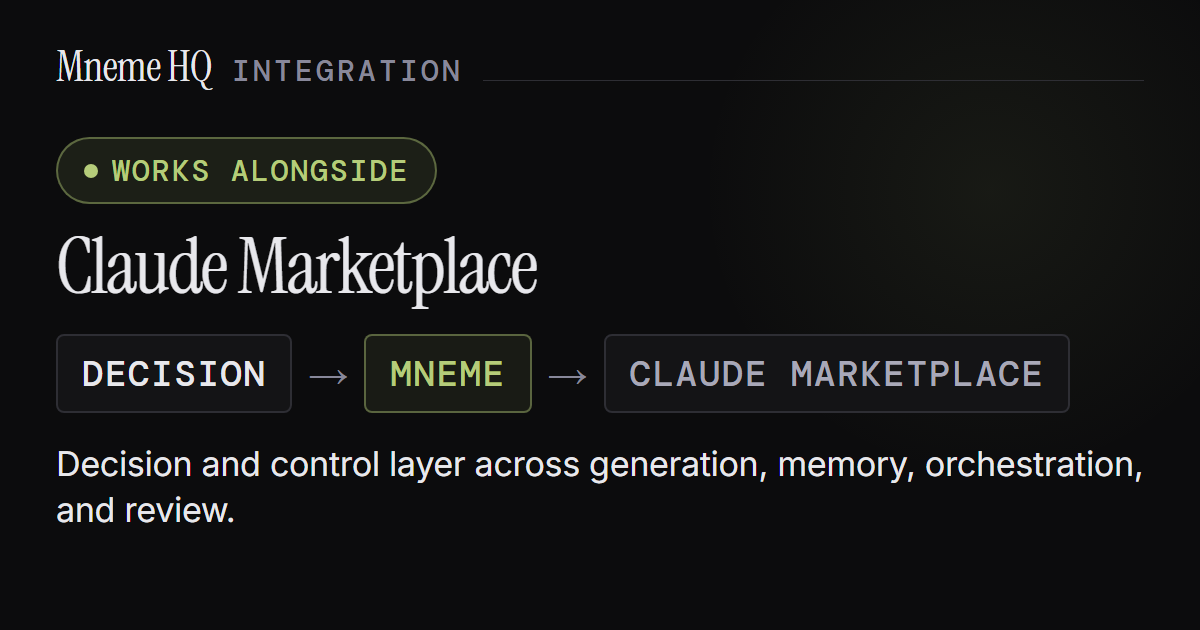
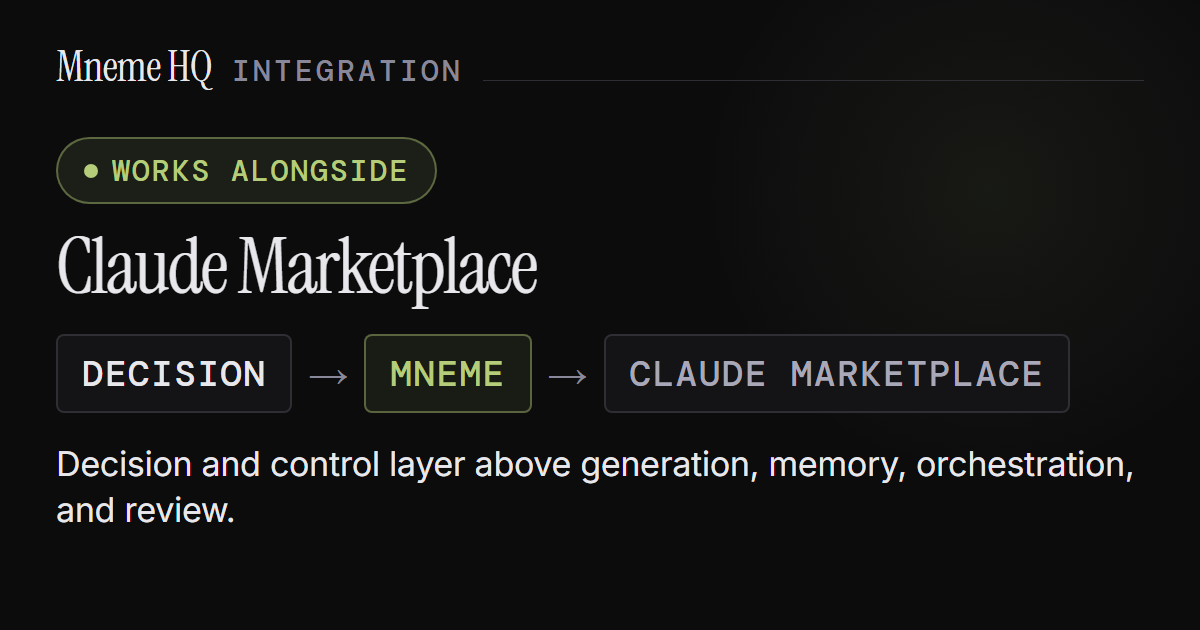
site: apply claim-audit fixes to the category wording repair
The pre-merge audit found replacements that changed more than the
category name. Restore the original scope in each:

- Claude Marketplace card: keep "above", not "across".
- Restore architecture scoping on the Cursor Rules quick answer, the
  VS Code table, the Agent Forge answer, the multi-agent heading and
  the supported-languages lede.
- Agent Forge and Devin: replace two remaining retired-category uses.
- CrewAI card: drop the "defer to" claim.
- Five concept related-cards: stop naming Mneme "governance layer".
- reliable-delegation: restore the antecedent for "the two layers".
- seo_check: concept pages must name the Organization as author.

Also revert six insight pages whose image alt text was re-synced from
the manifest by accident; that drift is out of scope here.

Agent: claude-code
Agent-Model: claude-opus-5-5
Agent-Session: 90a4675a-83b9-459b-99d5-dcad52c5d759
Task-Origin: claude
Human-Owner: TheoV823

Changed region(s): [[0.4008, 0.7238, 0.9558, 0.7841]]

diff --git a/site/concepts/reliable-delegation/index.html b/site/concepts/reliable-delegation/index.html
@@ -295,7 +295,7 @@
           {
             "@type": "Question",
             "name": "How does Mneme support reliable delegation?",
-            "acceptedAnswer": {"@type": "Answer", "text": "Mneme is the decision and control layer for agentic software development. It compiles a repository's architectural decisions into a deterministic constraint graph and enforces that graph at the boundaries where agents make consequential changes: session start, pre-tool-use, pre-commit, pre-PR, and CI. Governance packets inject constraints before generation, and verification contracts prove whether the agent's output preserved intent. Together they supply the two layers that convert agent capability into reliable delegation."}
+            "acceptedAnswer": {"@type": "Answer", "text": "Mneme is the decision and control layer for agentic software development. It compiles a repository's architectural decisions into a deterministic constraint graph and enforces that graph at the boundaries where agents make consequential changes: session start, pre-tool-use, pre-commit, pre-PR, and CI. Governance packets inject constraints before generation, and verification contracts prove whether the agent's output preserved intent. Together they supply the governance and verification layers that convert agent capability into reliable delegation."}
           }
         ]
       },
@@ -494,7 +494,7 @@
     </details>
     <details>
       <summary>How does Mneme support reliable delegation?</summary>
-      <div class="faq-body">Mneme is the decision and control layer for agentic software development. It compiles a repository&rsquo;s architectural decisions into a deterministic constraint graph and enforces that graph at the boundaries where agents make consequential changes: session start, pre-tool-use, pre-commit, pre-PR, and CI. Governance packets inject constraints before generation. Verification contracts prove whether the agent&rsquo;s output preserved intent. Together they provide the two layers that convert agent capability into reliable delegation. See the <a href="https://github.com/MnemeHQ/mneme" target="_blank" rel="noopener">open-source repository</a> for setup details.</div>
+      <div class="faq-body">Mneme is the decision and control layer for agentic software development. It compiles a repository&rsquo;s architectural decisions into a deterministic constraint graph and enforces that graph at the boundaries where agents make consequential changes: session start, pre-tool-use, pre-commit, pre-PR, and CI. Governance packets inject constraints before generation. Verification contracts prove whether the agent&rsquo;s output preserved intent. Together they provide the governance and verification layers that convert agent capability into reliable delegation. See the <a href="https://github.com/MnemeHQ/mneme" target="_blank" rel="noopener">open-source repository</a> for setup details.</div>
     </details>
   </section>
 

diff --git a/site/works-with/claude-marketplace/index.html b/site/works-with/claude-marketplace/index.html
@@ -21,12 +21,12 @@
   <meta property="og:image" content="https://mnemehq.com/works-with/claude-marketplace/og-v3.png" />
 <meta property="og:image:width" content="1200" />
 <meta property="og:image:height" content="630" />
-<meta property="og:image:alt" content="Integration: Mneme Works Alongside the Claude Marketplace. Decision and control layer across generation, memory, orchestration, and review." />
+<meta property="og:image:alt" content="Integration: Mneme Works Alongside the Claude Marketplace. Decision and control layer above generation, memory, orchestration, and review." />
   <meta name="twitter:card" content="summary_large_image" />
   <meta name="twitter:title" content="Architectural Governance for Claude-Powered Development Workflows" />
   <meta name="twitter:description" content="The Claude Marketplace validates the emergence of specialized infrastructure layers around AI-assisted software development. Mneme provides the decision and control layer." />
   <meta name="twitter:image" content="https://mnemehq.com/works-with/claude-marketplace/og-v3.png" />
-<meta name="twitter:image:alt" content="Integration: Mneme Works Alongside the Claude Marketplace. Decision and control layer across generation, memory, orchestration, and review." />
+<meta name="twitter:image:alt" content="Integration: Mneme Works Alongside the Claude Marketplace. Decision and control layer above generation, memory, orchestration, and review." />
   <meta name="author" content="Theo Valmis" />
   <meta property="article:published_time" content="2026-05-28T00:00:00Z" />
   <meta property="article:author" content="https://mnemehq.com/founder/" />

diff --git a/site/integrations/microsoft-agent-forge/index.html b/site/integrations/microsoft-agent-forge/index.html
@@ -75,7 +75,7 @@
           {
             "@type": "Question",
             "name": "Is Mneme an Agent Forge alternative?",
-            "acceptedAnswer": {"@type": "Answer", "text": "No. Agent Forge is the agent runtime infrastructure: orchestration, tool calling, observability, memory. Mneme is the decision and control layer above it: deterministic constraints, verification contracts, and provenance that travel with the repo. The two compose."}
+            "acceptedAnswer": {"@type": "Answer", "text": "No. Agent Forge is the agent runtime infrastructure: orchestration, tool calling, observability, memory. Mneme is the decision and control layer above it: deterministic architectural constraints, verification contracts, and provenance that travel with the repo. The two compose."}
           },
           {
             "@type": "Question",
@@ -331,7 +331,7 @@
 
 <section class="section narrow">
   <h2>How Mneme fits into the stack</h2>
-  <p>Mneme is not another orchestration framework, memory layer, or agent runtime. It operates as a governance and verification layer across autonomous execution surfaces &mdash; including Agent Forge.</p>
+  <p>Mneme is not another orchestration framework, memory layer, or agent runtime. It operates as a decision and control layer alongside autonomous execution surfaces such as Agent Forge.</p>
   <table class="stack-table">
     <thead><tr><th>Layer</th><th>Example</th></tr></thead>
     <tbody>

diff --git a/site/concepts/governance-propagation/index.html b/site/concepts/governance-propagation/index.html
@@ -488,7 +488,7 @@
       <ul class="concept-metadata-list is-grid">
       <li><a href="/integrations/claude-code/"><div class="rel-title">Claude Code</div><p class="rel-desc">PreToolUse hook enforces governance constraints before every file write.</p></a></li>
       <li><a href="/integrations/cursor/"><div class="rel-title">Cursor</div><p class="rel-desc">CLAUDE.md-equivalent governance surface for Cursor-based development.</p></a></li>
-      <li><a href="/integrations/copilot/"><div class="rel-title">GitHub Copilot</div><p class="rel-desc">Governance layer applied to Copilot-assisted generation via shared constraint records.</p></a></li>
+      <li><a href="/integrations/copilot/"><div class="rel-title">GitHub Copilot</div><p class="rel-desc">Mneme decisions applied to Copilot-assisted generation via shared constraint records.</p></a></li>
       <li><a href="/integrations/jetbrains/"><div class="rel-title">JetBrains AI Assistant</div><p class="rel-desc">IDE-level enforcement surface for JetBrains AI Assistant workflows.</p></a></li>
       <li><a href="/integrations/vscode/"><div class="rel-title">VS Code</div><p class="rel-desc">Governance constraints surfaced inside VS Code via the Mneme extension.</p></a></li>
       <li><a href="/integrations/github-actions/"><div class="rel-title">GitHub Actions</div><p class="rel-desc">CI enforcement gate: every PR is checked against the compiled constraint set.</p></a></li>

diff --git a/site/insights/microsoft-ai-decision-brief-architectural-intent/index.html b/site/insights/microsoft-ai-decision-brief-architectural-intent/index.html
@@ -21,12 +21,12 @@
   <meta property="og:image" content="https://mnemehq.com/insights/microsoft-ai-decision-brief-architectural-intent/og-v2.png" />
 <meta property="og:image:width" content="1200" />
 <meta property="og:image:height" content="630" />
-<meta property="og:image:alt" content="Microsoft&#x27;s AI Decision Brief: Where Intent Lives" />
+<meta property="og:image:alt" content="Microsoft&#x27;s AI Decision Brief: Where Does Architectural Intent Live?" />
   <meta name="twitter:card" content="summary_large_image" />
   <meta name="twitter:title" content="Microsoft&#x27;s AI Decision Brief: Where Does Architectural Intent Live?" />
   <meta name="twitter:description" content="Microsoft&#x27;s 2026 AI Decision Brief says programming is shifting from instructions to intent. For coding agents, intent must include architectural decisions." />
   <meta name="twitter:image" content="https://mnemehq.com/insights/microsoft-ai-decision-brief-architectural-intent/og-v2.png" />
-<meta name="twitter:image:alt" content="Microsoft&#x27;s AI Decision Brief: Where Intent Lives" />
+<meta name="twitter:image:alt" content="Microsoft&#x27;s AI Decision Brief: Where Does Architectural Intent Live?" />
   <meta name="author" content="Theo Valmis" />
   <meta property="article:published_time" content="2026-09-25T00:00:00Z" />
   <meta property="article:author" content="https://mnemehq.com/founder/" />

diff --git a/site/insights/atlassian-agentic-pivot-engineering-system-of-record/index.html b/site/insights/atlassian-agentic-pivot-engineering-system-of-record/index.html
@@ -21,12 +21,12 @@
   <meta property="og:image" content="https://mnemehq.com/insights/atlassian-agentic-pivot-engineering-system-of-record/og-v2.png" />
 <meta property="og:image:width" content="1200" />
 <meta property="og:image:height" content="630" />
-<meta property="og:image:alt" content="Atlassian&#x27;s Agentic Pivot Report" />
+<meta property="og:image:alt" content="Atlassian&#x27;s Agentic Pivot: 88% Need a System of Record, 19% Have One" />
   <meta name="twitter:card" content="summary_large_image" />
   <meta name="twitter:title" content="Atlassian&#x27;s Agentic Pivot: 88% Need a System of Record, 19% Have One" />
   <meta name="twitter:description" content="Atlassian&#x27;s Agentic Pivot report: 88% of engineering leaders need a governed system of record, 19% have one. What that gap means once agents write code." />
   <meta name="twitter:image" content="https://mnemehq.com/insights/atlassian-agentic-pivot-engineering-system-of-record/og-v2.png" />
-<meta name="twitter:image:alt" content="Atlassian&#x27;s Agentic Pivot Report" />
+<meta name="twitter:image:alt" content="Atlassian&#x27;s Agentic Pivot: 88% Need a System of Record, 19% Have One" />
   <meta name="author" content="Theo Valmis" />
   <meta property="article:published_time" content="2026-09-25T00:00:00Z" />
   <meta property="article:author" content="https://mnemehq.com/founder/" />

diff --git a/site/concepts/governance-infrastructure/index.html b/site/concepts/governance-infrastructure/index.html
@@ -715,7 +715,7 @@
       <li><a href="/integrations/github-actions/"><div class="rel-title">GitHub Actions</div><p class="rel-desc">CI enforcement gate: every PR is checked against the compiled constraint set.</p></a></li>
       <li><a href="/integrations/gitlab/"><div class="rel-title">GitLab</div><p class="rel-desc">Reference CI job runs mneme check on merge requests.</p></a></li>
       <li><a href="/integrations/cursor/"><div class="rel-title">Cursor</div><p class="rel-desc">CLAUDE.md-equivalent governance surface for Cursor-based development.</p></a></li>
-      <li><a href="/integrations/copilot/"><div class="rel-title">GitHub Copilot</div><p class="rel-desc">Governance layer applied to Copilot-assisted generation via shared constraint records.</p></a></li>
+      <li><a href="/integrations/copilot/"><div class="rel-title">GitHub Copilot</div><p class="rel-desc">Mneme decisions applied to Copilot-assisted generation via shared constraint records.</p></a></li>
       <li><a href="/integrations/jetbrains/"><div class="rel-title">JetBrains AI Assistant</div><p class="rel-desc">IDE-level enforcement surface for JetBrains AI Assistant workflows.</p></a></li>
       <li><a href="/integrations/vscode/"><div class="rel-title">VS Code</div><p class="rel-desc">Governance constraints surfaced inside VS Code via the Mneme extension.</p></a></li>
       </ul>

diff --git a/site/insights/package-hallucinations-pre-action-governance/index.html b/site/insights/package-hallucinations-pre-action-governance/index.html
@@ -21,12 +21,12 @@
   <meta property="og:image" content="https://mnemehq.com/insights/package-hallucinations-pre-action-governance/og-v2.png" />
 <meta property="og:image:width" content="1200" />
 <meta property="og:image:height" content="630" />
-<meta property="og:image:alt" content="Package Hallucinations Need Pre-Action Governance" />
+<meta property="og:image:alt" content="Package Hallucinations Show Why AI Coding Needs Pre-Action Governance" />
   <meta name="twitter:card" content="summary_large_image" />
   <meta name="twitter:title" content="Package Hallucinations Show Why AI Coding Needs Pre-Action Governance" />
   <meta name="twitter:description" content="USENIX 2025 found LLMs hallucinate packages in 5.2% to 21.7% of samples. Registry checks help, but a real package can still be the wrong one for your system." />
   <meta name="twitter:image" content="https://mnemehq.com/insights/package-hallucinations-pre-action-governance/og-v2.png" />
-<meta name="twitter:image:alt" content="Package Hallucinations Need Pre-Action Governance" />
+<meta name="twitter:image:alt" content="Package Hallucinations Show Why AI Coding Needs Pre-Action Governance" />
   <meta name="author" content="Theo Valmis" />
   <meta property="article:published_time" content="2026-09-25T00:00:00Z" />
   <meta property="article:author" content="https://mnemehq.com/founder/" />

diff --git a/site/insights/ai-native-sdlc-architecture-layer/index.html b/site/insights/ai-native-sdlc-architecture-layer/index.html
@@ -22,12 +22,12 @@
   <meta property="og:image" content="https://mnemehq.com/insights/ai-native-sdlc-architecture-layer/og-v2.png" />
 <meta property="og:image:width" content="1200" />
 <meta property="og:image:height" content="630" />
-<meta property="og:image:alt" content="The Architecture Layer the AI-Native SDLC Needs" />
+<meta property="og:image:alt" content="Anthropic's AI-Native SDLC Playbook: The Missing Architecture Layer" />
   <meta name="twitter:card" content="summary_large_image" />
   <meta name="twitter:title" content="Anthropic's AI-Native SDLC Playbook: The Missing Architecture Layer" />
   <meta name="twitter:description" content="Anthropic's AI-Native SDLC playbook moves governance into the agent's execution loop. What it gets right, and the architecture policy layer it still leaves open." />
   <meta name="twitter:image" content="https://mnemehq.com/insights/ai-native-sdlc-architecture-layer/og-v2.png" />
-<meta name="twitter:image:alt" content="The Architecture Layer the AI-Native SDLC Needs" />
+<meta name="twitter:image:alt" content="Anthropic's AI-Native SDLC Playbook: The Missing Architecture Layer" />
   <meta name="author" content="Theo Valmis" />
   <meta property="article:published_time" content="2026-08-23T00:00:00Z" />
   <meta property="article:author" content="https://mnemehq.com/founder/" />

diff --git a/site/insights/mneme-vs-cursor-rules/index.html b/site/insights/mneme-vs-cursor-rules/index.html
@@ -296,7 +296,7 @@
 
 <main id="main-content" tabindex="-1">
 <div class="answer-capsule" style="max-width:820px;margin:0 auto;padding:1.5rem 2rem;background:var(--surface);border-bottom:1px solid rgba(181, 204, 122,0.18);font-size:0.88rem;color:var(--muted);line-height:1.8;">
-  <strong style="color:var(--accent);">Mneme HQ vs Cursor Rules.</strong> Cursor Rules are per-repo prompt files that describe preferences to the model. Mneme HQ is the decision and control layer for agentic software development — it compiles decisions into enforceable constraints, retrieves them at prompt time based on what the agent is doing, and validates outputs against them. Rules files document standards. Mneme enforces them.
+  <strong style="color:var(--accent);">Mneme HQ vs Cursor Rules.</strong> Cursor Rules are per-repo prompt files that describe preferences to the model. Mneme HQ is the decision and control layer for agentic software development — it compiles architectural decisions into enforceable constraints, retrieves them at prompt time based on what the agent is doing, and validates outputs against them. Rules files document standards. Mneme enforces them.
 </div>
 <nav aria-label="Breadcrumb" class="breadcrumb-nav">
   <ol class="breadcrumb">

diff --git a/site/insights/ai-coding-agent-guardrails/index.html b/site/insights/ai-coding-agent-guardrails/index.html
@@ -22,12 +22,12 @@
   <meta property="og:image" content="https://mnemehq.com/insights/ai-coding-agent-guardrails/og-v2.png" />
 <meta property="og:image:width" content="1200" />
 <meta property="og:image:height" content="630" />
-<meta property="og:image:alt" content="AI Coding-Agent Guardrails" />
+<meta property="og:image:alt" content="AI Coding Agent Guardrails: Which Layers Actually Hold" />
   <meta name="twitter:card" content="summary_large_image" />
   <meta name="twitter:title" content="AI Coding Agent Guardrails: Which Layers Actually Hold" />
   <meta name="twitter:description" content="A field guide to AI coding agent guardrails: runtime, prompt, policy, architectural and standards layers. What each catches, what it misses, and which stops drift." />
   <meta name="twitter:image" content="https://mnemehq.com/insights/ai-coding-agent-guardrails/og-v2.png" />
-<meta name="twitter:image:alt" content="AI Coding-Agent Guardrails" />
+<meta name="twitter:image:alt" content="AI Coding Agent Guardrails: Which Layers Actually Hold" />
   <meta name="author" content="Theo Valmis" />
   <meta property="article:published_time" content="2026-07-06T00:00:00Z" />
   <meta property="article:author" content="https://mnemehq.com/founder/" />

diff --git a/site/insights/what-is-the-ai-sdlc/index.html b/site/insights/what-is-the-ai-sdlc/index.html
@@ -21,12 +21,12 @@
   <meta property="og:image" content="https://mnemehq.com/insights/what-is-the-ai-sdlc/og-v2.png" />
 <meta property="og:image:width" content="1200" />
 <meta property="og:image:height" content="630" />
-<meta property="og:image:alt" content="What Is the AI SDLC?" />
+<meta property="og:image:alt" content="What Is the AI SDLC? AI in the Software Development Lifecycle" />
   <meta name="twitter:card" content="summary_large_image" />
   <meta name="twitter:title" content="What Is the AI SDLC? AI in the Software Development Lifecycle" />
   <meta name="twitter:description" content="The AI SDLC is the software development lifecycle with AI agents in every phase: plan, design, implement, test, review, maintain. What changes, and the control gap." />
   <meta name="twitter:image" content="https://mnemehq.com/insights/what-is-the-ai-sdlc/og-v2.png" />
-<meta name="twitter:image:alt" content="What Is the AI SDLC?" />
+<meta name="twitter:image:alt" content="What Is the AI SDLC? AI in the Software Development Lifecycle" />
   <meta name="author" content="Theo Valmis" />
   <meta property="article:published_time" content="2026-05-12T00:00:00Z" />
   <meta property="article:author" content="https://mnemehq.com/founder/" />
